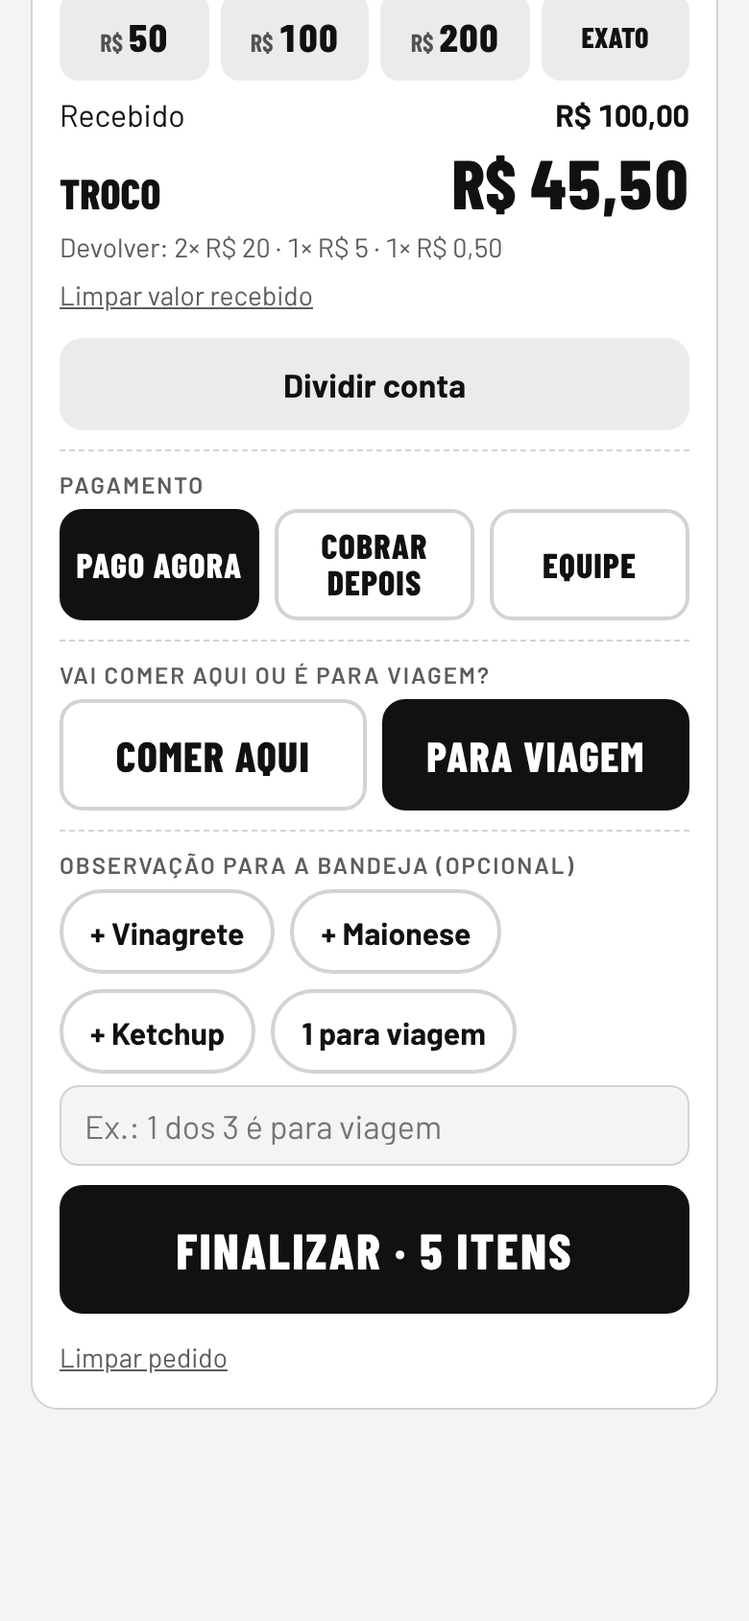
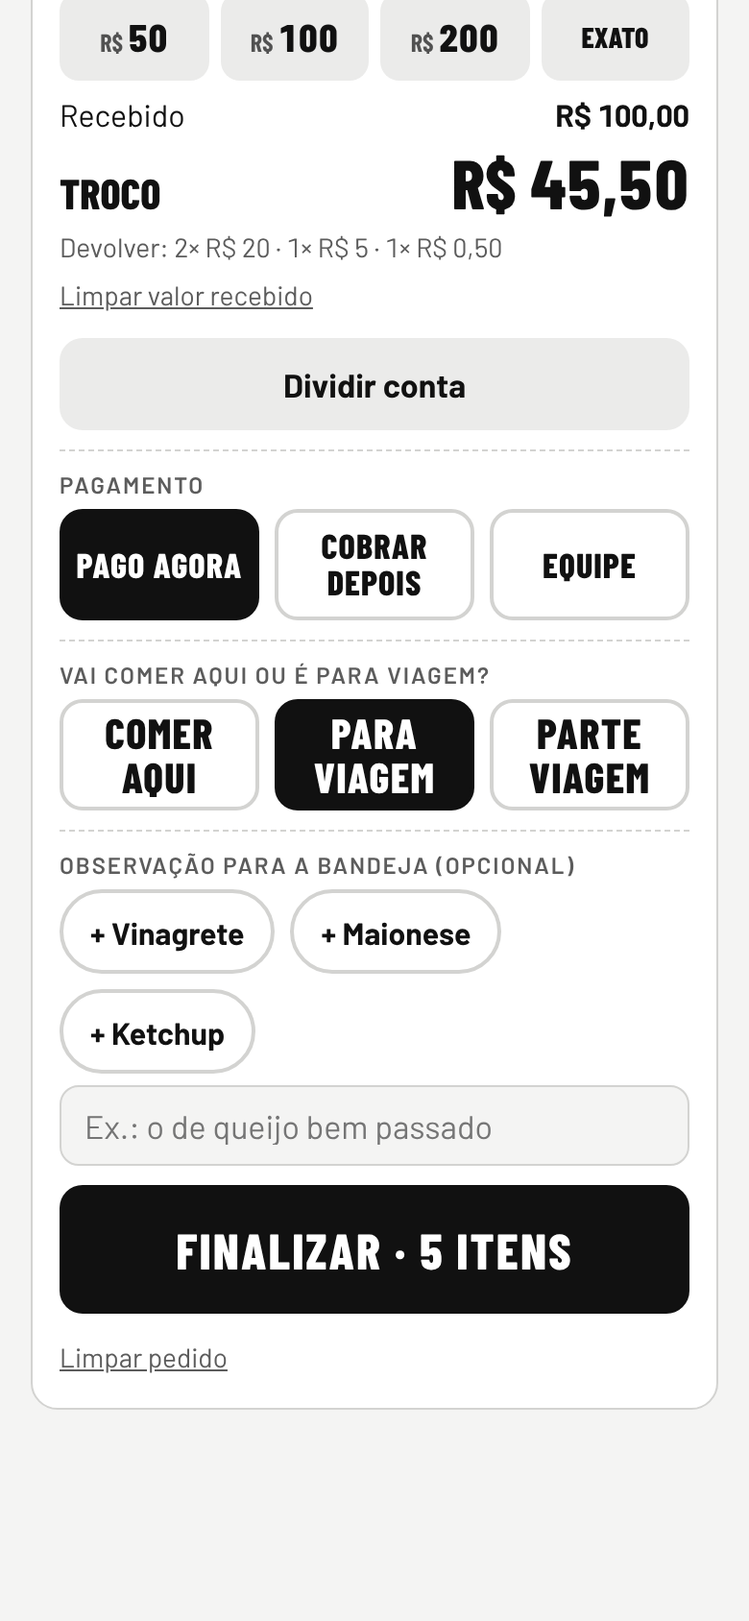
Parte viagem: marcar item por item o que vai para viagem
- Terceira opção no caixa ("Parte viagem") com um − / + por item; o pedido
  só finaliza depois de marcar o que vai para viagem
- A bandeja e o caldo veem o que é para viagem numa faixa preta
- O exemplo da demonstração ganhou um pedido "parte viagem"; teste de tela novo

Claude-Session: https://claude.ai/code/session_01KhnfXZuQSGMguR8c1B4EdE

diff --git a/js/app.js b/js/app.js
@@ -251,7 +251,8 @@ function renderCart(){
   const n=sum(cart.pastel)+sum(cart.caldo)+sum(cart.bebida);
   $("#obsBox").hidden=!n; $("#consumo").hidden=!n; $("#consumo").classList.toggle("need",!!n&&!consumo);
   document.querySelectorAll("#consumo [data-cons]").forEach(b=>b.setAttribute("aria-pressed",b.dataset.cons===consumo));
-  $("#btnGo").disabled=!n||busy||!db||!consumo; $("#btnGo").textContent=busy?"Gerando número…":(!n?"Finalizar":!consumo?"Escolha: aqui ou viagem":editando?`Salvar alterações do ${pad(editando.num)}`:addConta?`Acrescentar na conta · ${n} ${n===1?"item":"itens"}`:`Finalizar · ${n} ${n===1?"item":"itens"}`);
+  renderParte();const faltaParte=consumo==="parte"&&!Object.keys(viagemDoCarrinho()).length;
+  $("#btnGo").disabled=!n||busy||!db||!consumo||faltaParte; $("#btnGo").textContent=busy?"Gerando número…":(!n?"Finalizar":!consumo?"Escolha: aqui ou viagem":faltaParte?"Marque o que é para viagem":editando?`Salvar alterações do ${pad(editando.num)}`:addConta?`Acrescentar na conta · ${n} ${n===1?"item":"itens"}`:`Finalizar · ${n} ${n===1?"item":"itens"}`);
   $("#btnClear").hidden=!n;
   /* celular: barra fixa com o total enquanto o botão Finalizar está fora da tela */
   const bar=n>0&&!cartVisible;$("#cxBar").hidden=!bar;document.body.classList.toggle("has-cxbar",n>0);
@@ -261,7 +262,19 @@ try{new IntersectionObserver(es=>{cartVisible=es[0].isIntersecting;renderCart()}
 $("#cxGo").addEventListener("click",()=>{const g=$("#btnGo");try{g.scrollIntoView({behavior:"smooth",block:"end"})}catch(_){g.scrollIntoView(false)}});
 /* comer aqui ou para viagem: escolha obrigatória a cada pedido */
 let consumo=null;
-const CONS={aqui:"Comer aqui",viagem:"Para viagem"};
+const CONS={aqui:"Comer aqui",viagem:"Para viagem",parte:"Parte viagem"};
+/* parte viagem: quantos de cada item vão para viagem (o resto é para comer aqui) */
+let viagemSel=emptyCart();
+const viagemDoCarrinho=()=>{const v={};["pastel","caldo","bebida"].forEach(k=>{const m={};Object.entries(viagemSel[k]||{}).forEach(([f,q])=>{q=Math.min(+q||0,+cart[k][f]||0);if(q>0)m[f]=q});if(Object.keys(m).length)v[k]=m});return v};
+const viagemTxt=(o,kinds)=>o.consumo==="parte"&&o.viagem?kinds.map(k=>fmtItems((o.viagem||{})[k])).filter(Boolean).join(", "):"";
+const viagemTag=(o,kinds)=>{const t=viagemTxt(o,kinds);return t?`<div class="viagem-faixa"><b>Viagem:</b>${esc(t)}</div>`:""};
+function renderParte(){const on=consumo==="parte";$("#parteBox").hidden=!on;if(!on)return;
+  const tag={pastel:"",caldo:"caldo",bebida:"bebida"},rows=[];
+  ["pastel","caldo","bebida"].forEach(k=>Object.entries(cart[k]).forEach(([f,q])=>{if(!(q>0))return;const v=Math.min(+(viagemSel[k]||{})[f]||0,q);
+    rows.push(`<li class="${v?"on":""}"><span class="nm">${esc(f)}<small>${q} no pedido${tag[k]?" · "+tag[k]:""}</small></span><button type="button" data-vg="${k}" data-f="${esc(f)}" data-op="-" aria-label="Um ${esc(f)} a menos para viagem"${v?"":" disabled"}>−</button><b>${v}</b><button type="button" data-vg="${k}" data-f="${esc(f)}" data-op="+" aria-label="Um ${esc(f)} a mais para viagem"${v>=q?" disabled":""}>+</button></li>`)}));
+  $("#parteList").innerHTML=rows.join("")}
+$("#parteList").addEventListener("click",e=>{const b=e.target.closest("[data-vg]");if(!b)return;const k=b.dataset.vg,f=b.dataset.f,q=+cart[k][f]||0;
+  const m=viagemSel[k]=viagemSel[k]||{};m[f]=Math.max(0,Math.min(q,(+m[f]||0)+(b.dataset.op==="+"?1:-1)));if(!m[f])delete m[f];renderCart()});
 /* nome de quem pediu: o da ficha a cobrar (acréscimo herda o da conta) ou o da equipe */
 const nomeDe=o=>{if(o.cobrarNome||o.equipeNome)return o.cobrarNome||o.equipeNome;
   if(o.conta){const c=allOrders.find(x=>x.id===o.conta);if(c&&c.cobrarNome)return c.cobrarNome}return ""};
@@ -290,7 +303,7 @@ document.addEventListener("click",e=>{
   const m=e.target.closest("[data-minus]");
   if(m){const kind=m.dataset.minus,f=m.dataset.f;cart[kind][f]=Math.max(0,(cart[kind][f]||0)-1);if(!cart[kind][f])delete cart[kind][f];renderKeys();renderCart()}
 });
-$("#btnClear").addEventListener("click",()=>{cart=emptyCart();recebido=0;split=null;consumo=null;pagar="agora";addConta=null;editando=null;$("#pagNome").value="";obsLimpar();syncTrInput();renderKeys();renderCart()});
+$("#btnClear").addEventListener("click",()=>{cart=emptyCart();recebido=0;split=null;consumo=null;pagar="agora";addConta=null;editando=null;$("#pagNome").value="";obsLimpar();viagemSel=emptyCart();syncTrInput();renderKeys();renderCart()});
 /* ---------- fichas a cobrar: pedido sai para produção e o caixa cobra depois ---------- */
 let pagar="agora",cbKey=null,cbRec=0,addConta=null;
 $("#pagBox").addEventListener("click",e=>{const b=e.target.closest("[data-pag]");if(!b)return;pagar=b.dataset.pag;
@@ -420,11 +433,11 @@ function iniciarEdicao(o){
   cart={pastel:{...(o.pastel||{})},caldo:{...(o.caldo||{})},bebida:{...(o.bebida||{})}};
   consumo=CONS[o.consumo]?o.consumo:null;split=null;recebido=0;addConta=null;syncTrInput();
   editando={id:o.id,num:o.num,acrescimo:!!o.acrescimo,aCobrar:o.pago===false};
-  pagar=o.pago===false?"depois":o.equipe?"equipe":"agora";$("#pagNome").value=o.cobrarNome||o.equipeNome||"";$("#obsTxt").value=o.obs||"";obsChipsSync();
+  pagar=o.pago===false?"depois":o.equipe?"equipe":"agora";$("#pagNome").value=o.cobrarNome||o.equipeNome||"";$("#obsTxt").value=o.obs||"";obsChipsSync();viagemSel=o.consumo==="parte"&&o.viagem?JSON.parse(JSON.stringify(o.viagem)):emptyCart();
   $("#ovCancel").hidden=true;$("#ovCobrar").hidden=true;cbKey=null;show("caixa");renderKeys();renderCart();
   try{$(".cart").scrollIntoView({behavior:"smooth",block:"start"})}catch(_){}
   toast(`Editando o pedido ${pad(o.num)}: mude os itens e toque em Salvar alterações.`)}
-function cancelarEdicao(){editando=null;cart=emptyCart();consumo=null;pagar="agora";$("#pagNome").value="";obsLimpar();renderKeys();renderCart()}
+function cancelarEdicao(){editando=null;cart=emptyCart();consumo=null;pagar="agora";$("#pagNome").value="";obsLimpar();viagemSel=emptyCart();renderKeys();renderCart()}
 $("#editCancel").addEventListener("click",cancelarEdicao);
 async function salvarEdicao(cons){
   const ed=editando,o=orders.find(x=>x.id===ed.id);
@@ -447,7 +460,7 @@ async function salvarEdicao(cons){
   const ord=x=>JSON.stringify(Object.entries(x||{}).filter(([,q])=>+q>0).sort());
   upd.caldoDone=!temC?true:(ord(caldo)!==ord(o.caldo)?false:!!o.caldoDone);
   if(o.pago===false)upd.cobrarNome=$("#pagNome").value.trim().slice(0,40);
-  upd.obs=obsLer()||null;
+  upd.obs=obsLer()||null;upd.viagem=cons==="parte"?viagemDoCarrinho():null;
   const c=contas().find(x=>x.l.some(y=>y.id===o.id));
   try{
     await db.venda({day:today(),feira:feiraHoje(),id:o.id,patch:upd,vendLocal:vendLocal()});
@@ -457,7 +470,7 @@ async function salvarEdicao(cons){
     $("#ovCons").textContent=CONS[cons];$("#ovCons").className="ovcons "+cons;
     $("#ovTot").textContent=o.equipe?"Equipe · não cobra · "+brl(total)+" a preço de venda":"Total "+brl(total)+(o.pago===false?" · a cobrar":dif>0?" · cobrar mais "+brl(dif/100):dif<0?" · devolver "+brl(-dif/100)+" ao cliente":" · mesmo valor");
     $("#ovFichas").innerHTML=`<div class="ficha"><b>${pad(o.num)} · novo pedido</b><div>${esc(itemsAll({pastel,caldo,bebida}))}</div>${upd.obs?`<div><b>Obs:</b> ${esc(upd.obs)}</div>`:""}<div class="hint">Antes: ${esc(itemsAll(o))}</div></div>`;
-    editando=null;cart=emptyCart();consumo=null;pagar="agora";$("#pagNome").value="";obsLimpar();syncTrInput();renderKeys();
+    editando=null;cart=emptyCart();consumo=null;pagar="agora";$("#pagNome").value="";obsLimpar();viagemSel=emptyCart();syncTrInput();renderKeys();
     $("#ov").hidden=false;$("#ovClose").focus();
   }catch(err){if(err&&err.code==="sem-estoque")toastLongo(semEstoqueMsg(err));else toast("Não salvou. Confira a internet e toque de novo.")}
   busy=false;renderCart();render()}
@@ -680,6 +693,7 @@ $("#btnGo").addEventListener("click",async()=>{
     const rec=recebido,troco=rec?Math.round((rec-total)*100)/100:0;
     const ord={num:n,day:today(),t:Date.now(),caixa,consumo:cons,pastel,caldo,bebida,total:equipe?0:total,pastelDone:!hasP&&!hasB,caldoDone:!hasC};
     const obs=obsLer();if(obs)ord.obs=obs;
+    if(cons==="parte")ord.viagem=viagemDoCarrinho();
     /* equipe: produção e estoque normais, mas não entra no faturamento (o valor fica guardado só para o relatório) */
     if(equipe){ord.equipe=true;ord.valorEquipe=total;if(nome)ord.equipeNome=nome}
     else if(depois){ord.pago=false;if(nome)ord.cobrarNome=nome;if(ac){ord.conta=ac.k;ord.acrescimo=true}}
@@ -688,13 +702,13 @@ $("#btnGo").addEventListener("click",async()=>{
     const nSplit=split?split.n:0;
     /* pedido novo: número e pedido gravados juntos numa única conversa com o servidor (mais rápido no 4G) */
     n=(await db.venda({day:today(),feira:feiraHoje(),criar:ord,numFixo:ac?ac.num:0,vendLocal:vendLocal()})).n;ord.num=n;
-    cart=emptyCart(); recebido=0; split=null; consumo=null; pagar="agora"; addConta=null; $("#pagNome").value=""; obsLimpar(); syncTrInput(); renderKeys();
+    cart=emptyCart(); recebido=0; split=null; consumo=null; pagar="agora"; addConta=null; $("#pagNome").value=""; obsLimpar();viagemSel=emptyCart(); syncTrInput(); renderKeys();
     $("#ovLbl").textContent="Pedido registrado";
     $("#ovNum").textContent=pad(n);
     $("#ovCons").textContent=CONS[cons]; $("#ovCons").className="ovcons "+cons;
-    const fc=` · ${cons==="viagem"?"Viagem":"Aqui"}`;
+    const fc=` · ${cons==="viagem"?"Viagem":cons==="parte"?"Parte viagem":"Aqui"}`;
     $("#ovTot").textContent=equipe?"Equipe · não cobra"+(nome?" ("+nome+")":"")+" · "+brl(total)+" a preço de venda":"Total "+brl(total)+(depois?(ac?" · acrescentado na conta "+ac.nums:" · A COBRAR")+(nome?" ("+nome+")":""):nSplit?" · dividido em "+nSplit:(rec?(troco>=0?" · Troco "+brl(troco):" · Falta "+brl(-troco)):""));
-    $("#ovFichas").innerHTML=(hasP||hasB?`<div class="ficha"><b>${pad(n)} · Bandeja${fc}</b>${hasP?`<div>${esc(fmtItems(pastel))}</div>`:""}${hasB?`<div>Bebida: ${esc(fmtItems(bebida))}</div>`:""}${obs?`<div><b>Obs:</b> ${esc(obs)}</div>`:""}<div class="hint">A bandeja entrega ${hasP&&hasB?"pastel e bebida":hasP?"o pastel":"a bebida"}</div></div>`:"")
+    $("#ovFichas").innerHTML=(hasP||hasB?`<div class="ficha"><b>${pad(n)} · Bandeja${fc}</b>${hasP?`<div>${esc(fmtItems(pastel))}</div>`:""}${hasB?`<div>Bebida: ${esc(fmtItems(bebida))}</div>`:""}${ord.viagem&&viagemTxt(ord,["pastel","bebida"])?`<div><b>Viagem:</b> ${esc(viagemTxt(ord,["pastel","bebida"]))}</div>`:""}${obs?`<div><b>Obs:</b> ${esc(obs)}</div>`:""}<div class="hint">A bandeja entrega ${hasP&&hasB?"pastel e bebida":hasP?"o pastel":"a bebida"}</div></div>`:"")
       +(hasC?`<div class="ficha"><b>${pad(n)} · Caldo${fc}</b><div>${esc(fmtItems(caldo))}</div><div class="hint">Vai para o caldo</div></div>`:"");
     $("#ov").hidden=false; $("#ovClose").focus();
   }catch(err){if(err&&err.code==="sem-estoque"){toastLongo(semEstoqueMsg(err))}else toast(err&&err.code==="quota_exceeded"?"O sistema atingiu o limite de pedidos guardados. Avise o Erick.":"Não deu para registrar. Toque em Finalizar de novo.")}
@@ -819,7 +833,7 @@ function renderList(kind){
   const naoEspera=o=>isP&&!sum(fritaveis(o.pastel));
   const list=orders.filter(o=>!o[doneF]&&has(o)).sort((a,b)=>(naoEspera(b)-naoEspera(a))||fila(a,b));
   const el=$(isP?"#listBandeja":"#listCaldo");
-  el.innerHTML=list.length?list.map(o=>`<div class="ord"><span class="num">${pad(o.num)}</span><div class="items">${nomeTag(o)}${naoEspera(o)?'<span class="st ready">pronto para entregar</span>':""}${isP&&sum(fritaveis(o.pastel))>0?(o.oleo?'<span class="st oil">no óleo</span>':'<span class="st wait">esperando fritar</span>'):""}${consTag(o)?consTag(o)+" ":""}${acTag(o)}${o.pago===false?'<span class="cons acobrar">A cobrar</span> ':""}${obsTag(o)}${isP?unitsBlock(o):caldoBlock(o)}<div class="meta">Caixa ${esc(o.caixa||"")}</div></div><button class="done" data-done="${kind}" data-id="${esc(o.id)}">Entregue</button></div>`).join("")
+  el.innerHTML=list.length?list.map(o=>`<div class="ord"><span class="num">${pad(o.num)}</span><div class="items">${nomeTag(o)}${naoEspera(o)?'<span class="st ready">pronto para entregar</span>':""}${isP&&sum(fritaveis(o.pastel))>0?(o.oleo?'<span class="st oil">no óleo</span>':'<span class="st wait">esperando fritar</span>'):""}${consTag(o)?consTag(o)+" ":""}${acTag(o)}${o.pago===false?'<span class="cons acobrar">A cobrar</span> ':""}${viagemTag(o,isP?["pastel","bebida"]:["caldo"])}${obsTag(o)}${isP?unitsBlock(o):caldoBlock(o)}<div class="meta">Caixa ${esc(o.caixa||"")}</div></div><button class="done" data-done="${kind}" data-id="${esc(o.id)}">Entregue</button></div>`).join("")
     :`<div class="idle"><strong>Tudo entregue</strong>${isP?"Os pedidos de pastel e bebida aparecem aqui na ordem em que foram feitos.":"Os pedidos de caldo aparecem aqui na ordem em que foram feitos."}</div>`;
   const u=$(isP?"#undoBandeja":"#undoCaldo"), last=lastUndo[kind];
   u.hidden=!last; if(last)u.innerHTML=`<span>Pedido ${pad(last.num)} marcado como entregue.</span><button data-undo="${kind}">Desfazer</button>`;
@@ -949,7 +963,7 @@ function renderFechamento(){
   $("#gBody").innerHTML=`
     <div class="kpis">
       <div class="kpi"><span class="label">Faturamento do dia</span><span class="v">${brl(s.total)}</span><span class="d">${k===today()?"Hoje, ainda somando":"Dia fechado"}</span></div>
-      <div class="kpi"><span class="label">Pedidos</span><span class="v">${s.orders}</span><span class="d">Ticket médio ${brl(s.total/s.orders)}${s.consumo?` · ${s.consumo.aqui||0} aqui · ${s.consumo.viagem||0} viagem`:""}${s.equipe?`<br>Equipe: ${s.equipe} pedido${s.equipe===1?"":"s"} · ${brl(s.equipeValor)} a preço de venda (não cobrado)`:""}${s.cancelados?`<br><span style="color:var(--warn)">${s.cancelados} cancelado${s.cancelados===1?"":"s"} · ${brl(s.canceladosValor)} fora do faturamento</span>`:""}</span></div>
+      <div class="kpi"><span class="label">Pedidos</span><span class="v">${s.orders}</span><span class="d">Ticket médio ${brl(s.total/s.orders)}${s.consumo?` · ${s.consumo.aqui||0} aqui · ${s.consumo.viagem||0} viagem${s.consumo.parte?` · ${s.consumo.parte} parte viagem`:""}`:""}${s.equipe?`<br>Equipe: ${s.equipe} pedido${s.equipe===1?"":"s"} · ${brl(s.equipeValor)} a preço de venda (não cobrado)`:""}${s.cancelados?`<br><span style="color:var(--warn)">${s.cancelados} cancelado${s.cancelados===1?"":"s"} · ${brl(s.canceladosValor)} fora do faturamento</span>`:""}</span></div>
       <div class="kpi"><span class="label">Vendidos</span><span class="v">${pq} <span style="font-size:18px">pastéis</span></span><span class="d">${cq} caldo${cq===1?"":"s"} · ${bq} bebida${bq===1?"":"s"}</span></div>
     </div>
     ${(()=>{const x=valorDe(s);return tiposHTML(x.v,x.est)})()}

diff --git a/css/estilos.css b/css/estilos.css
@@ -78,12 +78,27 @@ h2{font-family:var(--display);font-weight:800;text-transform:uppercase;letter-sp
 .notas button{padding:0 4px;min-width:0}
 .notas button:active{background:var(--line)}
 .consumo{display:flex;flex-direction:column;gap:6px;border-top:1px dashed var(--line);padding-top:10px}
-.consumo .opts{display:grid;grid-template-columns:1fr 1fr;gap:8px}
+.consumo .opts{display:grid;grid-template-columns:repeat(3,minmax(0,1fr));gap:8px}
+#pagBox .opts{grid-template-columns:repeat(3,minmax(0,1fr))}
 .consumo .opts button{min-height:58px;border-radius:12px;border:2px solid var(--line);background:var(--surface);font-family:var(--display);font-weight:800;font-size:22px;text-transform:uppercase;letter-spacing:.03em;touch-action:manipulation}
 .consumo .opts button[aria-pressed="true"]{background:var(--lona);color:var(--lona-fg);border-color:var(--lona)}
 .consumo.need .opts button{border-color:var(--mostarda)}
 .cons{display:inline-block;border-radius:999px;padding:2px 10px;font-family:var(--display);font-weight:800;font-size:16px;text-transform:uppercase;letter-spacing:.04em;vertical-align:middle;white-space:nowrap}
 .cons.viagem{background:var(--lona);color:var(--lona-fg)}
+.cons.parte{background:var(--surface);color:var(--fg);border:2px solid var(--lona)}
+.ovcons.parte{background:var(--surface);color:var(--fg);border:3px solid var(--lona)}
+/* parte viagem: no caixa, um − / + por item; nos postos, uma faixa preta com o que vai para viagem */
+.parte-box{display:flex;flex-direction:column;gap:6px;margin-top:4px}
+.parte-box ul{list-style:none;margin:0;padding:0;display:flex;flex-direction:column;gap:6px}
+.parte-box li{display:grid;grid-template-columns:minmax(0,1fr) auto auto auto;align-items:center;gap:8px;background:var(--soft);border-radius:10px;padding:6px 8px 6px 12px}
+.parte-box li .nm{font-weight:700;overflow-wrap:anywhere}
+.parte-box li .nm small{display:block;color:var(--muted);font-weight:600}
+.parte-box li button:disabled{opacity:.35}
+.parte-box li button{min-width:46px;min-height:46px;border-radius:10px;border:2px solid var(--line);background:var(--surface);color:var(--fg);font-size:24px;font-weight:800;touch-action:manipulation}
+.parte-box li b{font-family:var(--display);font-size:26px;min-width:28px;text-align:center}
+.parte-box li.on{background:var(--lona);color:var(--lona-fg)}.parte-box li.on .nm small{color:inherit;opacity:.8}
+.viagem-faixa{display:block;background:var(--lona);color:var(--lona-fg);font-weight:800;font-size:20px;line-height:1.25;border-radius:8px;padding:6px 10px;margin:6px 0;overflow-wrap:anywhere}
+.viagem-faixa b{font-family:var(--display);text-transform:uppercase;letter-spacing:.04em;margin-right:6px}
 .cons.aqui{background:var(--soft);color:var(--fg);border:1px solid var(--line)}
 .ovcons{font-family:var(--display);font-weight:800;font-size:30px;text-transform:uppercase;letter-spacing:.04em;border-radius:12px;padding:8px 12px}
 .ovcons.viagem{background:var(--lona);color:var(--lona-fg)}
@@ -436,6 +451,7 @@ main,.overlay .sheet,.cxbar{zoom:var(--zoom,1)}
 .cb-foot{display:flex;gap:10px;flex-wrap:wrap}
 #pagBox .opts{grid-template-columns:repeat(3,minmax(0,1fr))}
 #pagBox .opts button{font-size:18px;padding:4px;line-height:1.05;white-space:normal;overflow-wrap:break-word;min-width:0}
+#consumo .opts button{padding:4px;line-height:1.05;white-space:normal;overflow-wrap:break-word;min-width:0;height:auto}
 .cons.equipe{background:var(--ok);color:var(--ok-fg)}
 .est-lista{display:grid;grid-template-columns:repeat(auto-fill,minmax(min(330px,100%),1fr));gap:10px}
 .erow{display:grid;grid-template-columns:minmax(0,1fr) auto;gap:8px 12px;align-items:center;background:var(--surface);border:1px solid var(--line);border-radius:12px;padding:10px 12px}

diff --git a/tests/e2e/novidades.spec.js b/tests/e2e/novidades.spec.js
@@ -27,8 +27,8 @@ test("observação e nome do cliente aparecem para a bandeja e a fritura", async
   await page.locator('#keysPastel .key[data-f="CARNE"]').click();
   await page.locator('#keysPastel .key[data-f="QUEIJO"]').click();
   await page.locator('[data-obs="+ vinagrete"]').click();
-  await page.locator('[data-obs="1 para viagem"]').click();
-  await expect(page.locator("#obsTxt")).toHaveValue("+ vinagrete, 1 para viagem");
+  await page.locator('[data-obs="+ ketchup"]').click();
+  await expect(page.locator("#obsTxt")).toHaveValue("+ vinagrete, + ketchup");
   await page.locator("#pagDepois").click();
   await page.locator("#pagNome").fill("Seu Joaquim");
   await page.locator("#consAqui").click();
@@ -39,7 +39,7 @@ test("observação e nome do cliente aparecem para a bandeja e a fritura", async
   await irPara(page, "bandeja");
   const card = page.locator("#listBandeja .ord", { hasText: n });
   await expect(card.locator(".pnome")).toHaveText("Seu Joaquim");
-  await expect(card.locator(".obs")).toContainText("+ vinagrete, 1 para viagem");
+  await expect(card.locator(".obs")).toContainText("+ vinagrete, + ketchup");
   await irPara(page, "fritura");
   await expect(page.locator("#lots .pcard", { hasText: n }).locator(".pnome")).toHaveText("Seu Joaquim");
 });
@@ -64,4 +64,23 @@ test("o gerente vê quanto entrou em pastel, caldo e bebida", async ({ page }) =
   await expect(painel).toContainText("Pastéis");
   await expect(painel).toContainText("Caldo de cana");
   await expect(painel).toContainText("Bebidas");
+});
+
+test("parte viagem: o caixa marca o que vai para viagem e a bandeja vê numa faixa", async ({ page }) => {
+  await abrir(page);
+  for (const f of ["CARNE", "CARNE", "QUEIJO"]) await page.locator(`#keysPastel .key[data-f="${f}"]`).click();
+  await page.locator('#keysBebida .key[data-f="Coca lata"]').click();
+  await page.locator("#consParte").click();
+  await expect(page.locator("#btnGo")).toBeDisabled();
+  await expect(page.locator("#btnGo")).toHaveText("Marque o que é para viagem");
+  await page.locator('[data-vg="pastel"][data-f="CARNE"][data-op="+"]').click();
+  await page.locator('[data-vg="bebida"][data-f="Coca lata"][data-op="+"]').click();
+  await page.locator("#btnGo").click();
+  await expect(page.locator("#ovFichas")).toContainText("Viagem: 1× carne, 1× coca lata");
+  const n = (await page.locator("#ovNum").textContent()).trim();
+  await page.locator("#ovClose").click();
+  await irPara(page, "bandeja");
+  const card = page.locator("#listBandeja .ord", { hasText: n });
+  await expect(card.locator(".cons.parte")).toHaveText("Parte viagem");
+  await expect(card.locator(".viagem-faixa")).toContainText("1× carne, 1× coca lata");
 });

diff --git a/js/dados-demo.js b/js/dados-demo.js
@@ -49,7 +49,7 @@ export async function gerarDemo({ vazia = false } = {}) {
     { num: 7, t: min(18), caixa: "Esquerda", consumo: "aqui", pastel: { QUEIJO: 2 }, bebida: { "Coca Zero lata": 1 }, pago: false, cobrarNome: "Moço do boné azul", id: "demo-07" },
     { num: 7, t: min(9), caixa: "Esquerda", consumo: "aqui", pastel: { CARNE: 1 }, caldo: { "300 ml (copo) + Maracujá": 1 }, pago: false, cobrarNome: "Moço do boné azul", conta: "demo-07", acrescimo: true },
     { num: 8, t: min(12), caixa: "Direita", consumo: "viagem", caldo: { "1 Litro (garrafa) + Abacaxi": 1, "¹/2 Litro (garrafa)": 1 } },
-    { num: 9, t: min(6), caixa: "Direita", consumo: "viagem", pastel: { PALMITO: 1, "CARNE/OVO": 1, FRANGO: 2 }, obs: "+ vinagrete, 1 para comer aqui" },
+    { num: 9, t: min(6), caixa: "Direita", consumo: "parte", pastel: { PALMITO: 1, "CARNE/OVO": 1, FRANGO: 2 }, viagem: { pastel: { FRANGO: 2 } }, obs: "+ vinagrete" },
     { num: 10, t: min(2), caixa: "Esquerda", consumo: "aqui", pastel: { CARNE: 1, QUEIJO: 1 }, bebida: { Sprite: 1 } }
   ];
   if (!vazia) P.forEach((p, i) => {
@@ -58,7 +58,7 @@ export async function gerarDemo({ vazia = false } = {}) {
     const temP = Object.keys(o.pastel).length + Object.keys(o.bebida).length > 0, temC = Object.keys(o.caldo).length > 0;
     o.pastelDone = p.entregue || p.pastelDone || !temP; o.caldoDone = p.entregue || !temC;
     if (o.pastelDone && temP) o.pastelAt = p.t + 7 * 60000;
-    for (const k of ["pagamento", "pago", "cobrarNome", "conta", "acrescimo", "oleo", "ent", "cancelado", "obs"]) if (p[k] !== undefined) o[k] = p[k];
+    for (const k of ["pagamento", "pago", "cobrarNome", "conta", "acrescimo", "oleo", "ent", "cancelado", "obs", "viagem"]) if (p[k] !== undefined) o[k] = p[k];
     if (p.oleo) o.oleoAt = agora - 3 * 60000;
     if (p.cancelado) o.canceladoAt = p.t + 60000;
     D["orders/" + (p.id || "demo-" + String(i + 1).padStart(2, "0") + (p.acrescimo ? "b" : ""))] = o;

diff --git a/index.html b/index.html
@@ -160,14 +160,19 @@
           <div class="opts" role="group" aria-labelledby="consLbl">
             <button type="button" id="consAqui" data-cons="aqui" aria-pressed="false">Comer aqui</button>
             <button type="button" id="consViagem" data-cons="viagem" aria-pressed="false">Para viagem</button>
+            <button type="button" id="consParte" data-cons="parte" aria-pressed="false">Parte viagem</button>
+          </div>
+          <div class="parte-box" id="parteBox" hidden>
+            <div class="hint" style="margin:0">Quantos de cada são <b>para viagem</b>? O resto é para comer aqui.</div>
+            <ul id="parteList"></ul>
           </div>
         </div>
         <div class="consumo" id="obsBox" hidden>
           <label class="label" for="obsTxt">Observação para a bandeja (opcional)</label>
           <div class="obs-chips" id="obsChips">
-            <button type="button" data-obs="+ vinagrete">+ Vinagrete</button><button type="button" data-obs="+ maionese">+ Maionese</button><button type="button" data-obs="+ ketchup">+ Ketchup</button><button type="button" data-obs="1 para viagem">1 para viagem</button>
+            <button type="button" data-obs="+ vinagrete">+ Vinagrete</button><button type="button" data-obs="+ maionese">+ Maionese</button><button type="button" data-obs="+ ketchup">+ Ketchup</button>
           </div>
-          <input id="obsTxt" class="pag-nome" type="text" autocomplete="off" maxlength="120" placeholder="Ex.: 1 dos 3 é para viagem">
+          <input id="obsTxt" class="pag-nome" type="text" autocomplete="off" maxlength="120" placeholder="Ex.: o de queijo bem passado">
         </div>
         <button class="go" id="btnGo" disabled>Finalizar</button>
         <button class="link" id="btnClear" hidden>Limpar pedido</button>

diff --git a/js/regras.js b/js/regras.js
@@ -29,7 +29,7 @@ export function addOrder(s,o,preco){if(o.equipe&&!o.cancelado){s.equipe=(+s.equi
   const cash=cashOf(o);s.dinheiro=r2((+s.dinheiro||0)+cash);s.troco=r2((+s.troco||0)+trocoOf(o));
   s.porCaixa=s.porCaixa||{};const n=o.caixa||"sem nome",c=s.porCaixa[n]=s.porCaixa[n]||{orders:0,total:0,dinheiro:0};
   if(!o.acrescimo)c.orders++;c.total=r2(c.total+(+o.total||0));c.dinheiro=r2(c.dinheiro+cash);
-  if((o.consumo==="aqui"||o.consumo==="viagem")&&!o.acrescimo){s.consumo={...(s.consumo||{})};s.consumo[o.consumo]=(s.consumo[o.consumo]||0)+1}
+  if((o.consumo==="aqui"||o.consumo==="viagem"||o.consumo==="parte")&&!o.acrescimo){s.consumo={...(s.consumo||{})};s.consumo[o.consumo]=(s.consumo[o.consumo]||0)+1}
   if(o.pago===false)s.aReceber=r2((+s.aReceber||0)+(+o.total||0))}
 
 /* Divide a conta em centavos. "igual": partes iguais, os centavos que sobram vão para as primeiras pessoas.

diff --git a/README.md b/README.md
@@ -28,9 +28,9 @@ A barraca trabalha com dois caixas, uma pessoa fritando, uma na bandeja (que ent
 
 | Posto | O que tem |
 |---|---|
-| **Caixa** | Cardápio em botões (1 toque = 1 pastel), sabores de caldo combináveis, aviso de sabor acabando, "comer aqui ou viagem", troco com sugestão de notas, divisão da conta (partes iguais ou por item). **Observação do pedido** com botões rápidos (+ vinagrete, + maionese, + ketchup, 1 para viagem) ou texto livre. **Cobrar depois** com nome do cliente, acréscimos na mesma ficha e divisão na hora de receber. Pedido da **equipe** (vai para a produção e desconta do estoque, mas não entra no faturamento). **Editar** e cancelar pedido, com desfazer, e **histórico do dia** com busca. |
+| **Caixa** | Cardápio em botões (1 toque = 1 pastel), sabores de caldo combináveis, aviso de sabor acabando, "comer aqui, viagem ou **parte viagem**" (marca item por item o que vai para viagem), troco com sugestão de notas, divisão da conta (partes iguais ou por item). **Observação do pedido** com botões rápidos (+ vinagrete, + maionese, + ketchup) ou texto livre. **Cobrar depois** com nome do cliente, acréscimos na mesma ficha e divisão na hora de receber. Pedido da **equipe** (vai para a produção e desconta do estoque, mas não entra no faturamento). **Editar** e cancelar pedido, com desfazer, e **histórico do dia** com busca. |
 | **Fritura** | Um quadro por pedido, na ordem de chegada, com a marca de "fogo cheio" pela capacidade do óleo. Botão **"Coloquei no óleo"** e lista do que já está fritando. Sino a cada pedido novo, que chega destacado. Num pedido editado, mostra só o que foi acrescentado. |
-| **Bandeja** | **Contador por sabor** ("CARNE 2/3"): mostra o que falta entregar, e o pedido sai sozinho quando tudo foi entregue. Mostra se o pedido ainda está "esperando fritar" ou já está "no óleo", o **nome do cliente** ao lado do número, a **observação** numa faixa amarela, as bebidas numa faixa azul e os salgados da estufa à parte. Pedido que não depende da fritura sobe para o topo. |
+| **Bandeja** | **Contador por sabor** ("CARNE 2/3"): mostra o que falta entregar, e o pedido sai sozinho quando tudo foi entregue. Mostra se o pedido ainda está "esperando fritar" ou já está "no óleo", o **nome do cliente** ao lado do número, a **observação** numa faixa amarela, o que vai **para viagem** numa faixa preta, as bebidas numa faixa azul e os salgados da estufa à parte. Pedido que não depende da fritura sobe para o topo. |
 | **Caldo** | Cada copo ou garrafa numa linha, com tamanho, quantidade e sabores separados. |
 | **Estoque** | Estoque padrão de cada feira (terça, sexta e domingo) que já vale no dia, com ajuste do dia, **+ Repor** e **− Perda**. Desconta sozinho a cada venda, e o **banco recusa a venda** de um sabor que acabou, mesmo que o celular de um caixa esteja atrasado. |
 | **Gerente** | Faturamento do dia, da semana e do mês, comparação com o período anterior, **faturamento por tipo** (pastel, caldo e bebida), sabores mais vendidos, dinheiro × Pix, valor por caixa, consumo da equipe, cancelados, contas em aberto e conferência da gaveta. |
